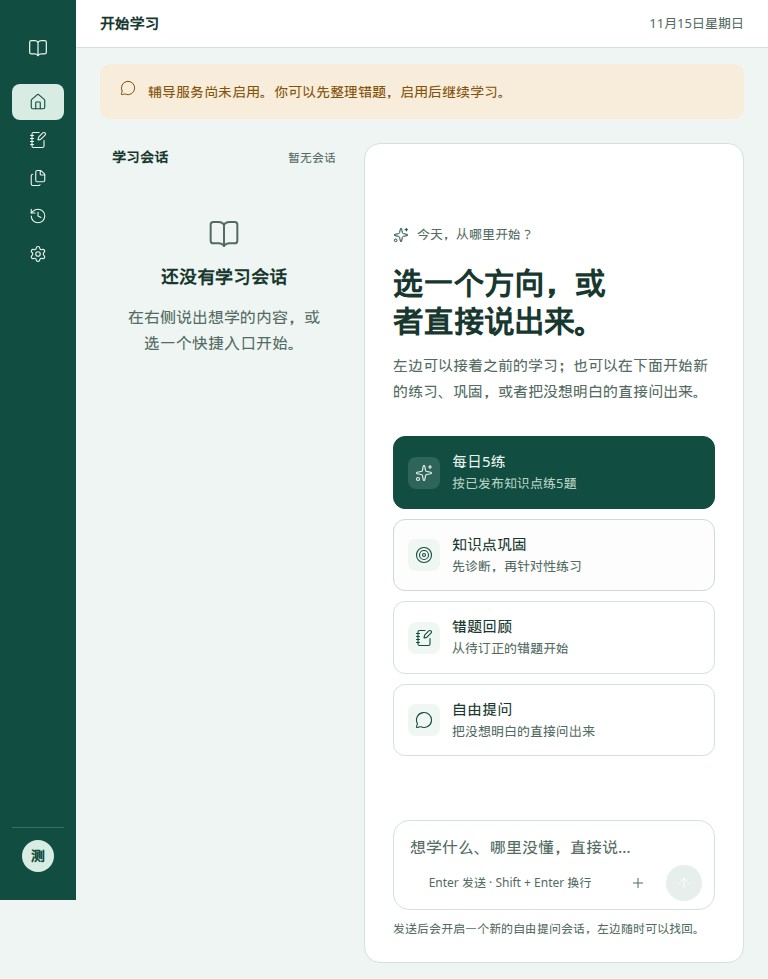
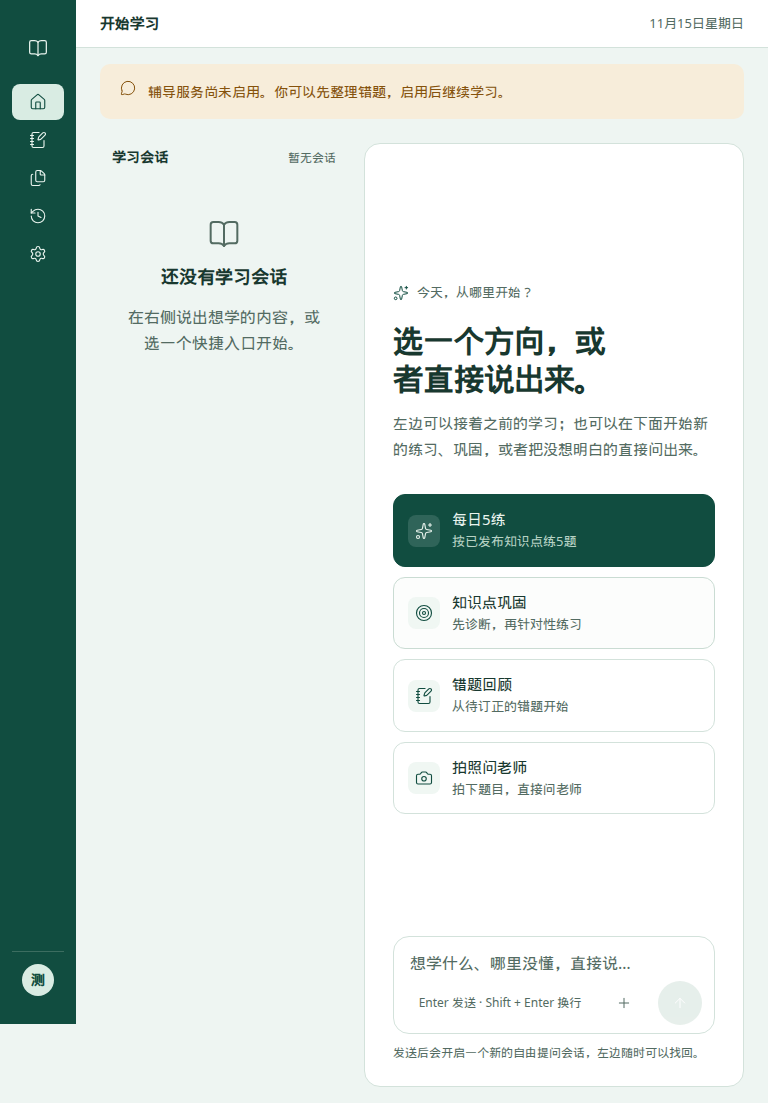
feat: adapt study navigation and composer across devices
Hide the global tab bar on study, add a back control, keep 44px targets,
and adapt the practice shell to phone, pad, and desktop viewports.

diff --git a/tests/e2e/mobile-practice.spec.ts b/tests/e2e/mobile-practice.spec.ts
@@ -1,0 +1,101 @@
+import { test, expect, type Page } from "@playwright/test";
+import { mockLearningApi } from "./fixtures/ui-api";
+
+const viewports = [
+  { width: 320, height: 740 },
+  { width: 390, height: 844 },
+  { width: 430, height: 932 },
+  { width: 768, height: 1024 },
+  { width: 1024, height: 768 },
+  { width: 1440, height: 900 },
+];
+
+async function login(page: Page) {
+  await page.getByLabel("账号", { exact: true }).fill("student");
+  await page.getByLabel("密码", { exact: true }).fill("long-password");
+  await page.getByRole("button", { name: "登录", exact: true }).click();
+}
+
+async function noHorizontalOverflow(page: Page) {
+  await expect
+    .poll(() =>
+      page.evaluate(
+        () => document.documentElement.scrollWidth <= window.innerWidth + 1,
+      ),
+    )
+    .toBe(true);
+}
+
+test.describe("mobile practice layout", () => {
+  for (const viewport of viewports) {
+    test(`${viewport.width}x${viewport.height} keeps study usable`, async ({
+      page,
+    }) => {
+      await page.setViewportSize(viewport);
+      await mockLearningApi(page, "student", { practiceSets: true });
+      await page.goto("/");
+      await login(page);
+      await expect(page.getByRole("button", { name: "每日5练" })).toBeVisible();
+      await expect(page.getByRole("button", { name: "错题回顾" })).toBeVisible();
+      await expect(page.getByRole("button", { name: "拍照问老师" })).toBeVisible();
+      await expect(page.getByRole("button", { name: "知识点巩固" })).toBeVisible();
+      await noHorizontalOverflow(page);
+
+      await page.getByRole("button", { name: "每日5练" }).click();
+      await expect(page).toHaveURL(/\/study\//);
+      await expect(page.getByRole("heading", { name: "第 1 题" })).toBeVisible();
+      await expect(page.getByRole("link", { name: "返回" })).toBeVisible();
+      if (viewport.width < 768) {
+        await expect(page.getByRole("navigation", { name: "底部导航" })).toHaveCount(
+          0,
+        );
+      }
+      await noHorizontalOverflow(page);
+      const tooSmall = await page.evaluate(() => {
+        const nodes = [...document.querySelectorAll("button, a.button, .tab-bar a")];
+        return nodes
+          .filter((node) => {
+            if (node.classList.contains("skip-link")) return false;
+            const style = window.getComputedStyle(node);
+            if (style.display === "none" || style.visibility === "hidden")
+              return false;
+            const box = node.getBoundingClientRect();
+            return box.width > 0 && box.height > 0 && (box.width < 44 || box.height < 44);
+          })
+          .map((node) => (node as HTMLElement).innerText || node.getAttribute("aria-label"));
+      });
+      expect(tooSmall).toEqual([]);
+    });
+  }
+
+  test("soft keyboard resize does not cover the send control", async ({
+    page,
+  }) => {
+    await page.setViewportSize({ width: 390, height: 844 });
+    await mockLearningApi(page, "student", { practiceSets: true });
+    await page.goto("/");
+    await login(page);
+    await page.getByRole("button", { name: "每日5练" }).click();
+    await expect(page.getByLabel("你的回答")).toBeVisible();
+    await page.evaluate(() => {
+      Object.defineProperty(window, "innerHeight", { configurable: true, value: 844 });
+      const visual = {
+        width: 390,
+        height: 480,
+        offsetTop: 0,
+        addEventListener: () => {},
+        removeEventListener: () => {},
+      };
+      Object.defineProperty(window, "visualViewport", {
+        configurable: true,
+        value: visual,
+      });
+      window.dispatchEvent(new Event("resize"));
+    });
+    const send = page.getByRole("button", { name: "发送消息" });
+    await expect(send).toBeVisible();
+    const box = await send.boundingBox();
+    expect(box).toBeTruthy();
+    expect((box?.y ?? 0) + (box?.height ?? 0)).toBeLessThanOrEqual(844);
+  });
+});

diff --git a/apps/web/src/components/AppShell.tsx b/apps/web/src/components/AppShell.tsx
@@ -88,8 +88,9 @@ export function AppShell({
 }) {
   const { pathname } = useLocation();
   const tabs = mode === "admin" ? adminTabs : studentTabs;
+  const studying = pathname.startsWith("/study/");
   return (
-    <div className="app-shell">
+    <div className={`app-shell${studying ? " is-study" : ""}`}>
       <a className="skip-link" href="#main-content">
         跳到主要内容
       </a>
@@ -138,21 +139,34 @@ export function AppShell({
       </aside>
       <div className="workspace">
         <header className="context-bar">
-          <span className="context-title">{pageTitle(pathname)}</span>
-          <span className="context-meta">{TODAY.format(new Date())}</span>
+          {studying ? (
+            <>
+              <Link className="context-back" to="/">
+                返回
+              </Link>
+              <span className="context-title">学习进行中</span>
+            </>
+          ) : (
+            <>
+              <span className="context-title">{pageTitle(pathname)}</span>
+              <span className="context-meta">{TODAY.format(new Date())}</span>
+            </>
+          )}
         </header>
         <main id="main-content" className="page-content">
           {children}
         </main>
       </div>
-      <nav className="tab-bar" aria-label="底部导航">
-        {tabs.map(({ to, label, icon: Icon }) => (
-          <NavLink key={to} to={to} end={to === "/"} title={label}>
-            <Icon size={20} />
-            <span>{label}</span>
-          </NavLink>
-        ))}
-      </nav>
+      {!studying && (
+        <nav className="tab-bar" aria-label="底部导航">
+          {tabs.map(({ to, label, icon: Icon }) => (
+            <NavLink key={to} to={to} end={to === "/"} title={label}>
+              <Icon size={20} />
+              <span>{label}</span>
+            </NavLink>
+          ))}
+        </nav>
+      )}
     </div>
   );
 }

diff --git a/apps/web/src/styles/global.css b/apps/web/src/styles/global.css
@@ -338,6 +338,14 @@ textarea.input {
   font-weight: 600;
   letter-spacing: -0.01em;
 }
+.context-back {
+  min-height: 44px;
+  min-width: 44px;
+  display: inline-flex;
+  align-items: center;
+  font-weight: 500;
+  color: var(--primary);
+}
 .context-meta {
   font-size: 13px;
   color: var(--muted);
@@ -695,8 +703,8 @@ textarea.input {
   }
 }
 .session-actions button {
-  width: 36px;
-  height: 36px;
+  width: 44px;
+  height: 44px;
   display: grid;
   place-items: center;
   border: 0;
@@ -724,8 +732,8 @@ textarea.input {
   font-size: 14px;
 }
 .session-edit button {
-  width: 36px;
-  height: 36px;
+  width: 44px;
+  height: 44px;
   display: grid;
   place-items: center;
   border: 0;
@@ -749,7 +757,7 @@ textarea.input {
   gap: 8px;
 }
 .session-confirm button {
-  min-height: 36px;
+  min-height: 44px;
   padding: 4px 16px;
   border: 1px solid var(--border);
   border-radius: 8px;
@@ -1272,6 +1280,20 @@ textarea.input {
   }
   .context-meta {
     display: none;
+  }
+  .app-shell.is-study .tab-bar {
+    display: none;
+  }
+  .app-shell.is-study .session-rail {
+    display: none;
+  }
+  .app-shell.is-study .page-content {
+    height: calc(100dvh - var(--topbar-height));
+    padding-bottom: 12px;
+    overflow: hidden;
+  }
+  .app-shell.is-study .home-layout {
+    height: 100%;
   }
   .tab-bar {
     display: grid;
@@ -1916,8 +1938,8 @@ textarea.input {
   color: var(--muted);
 }
 .composer-send {
-  width: 36px;
-  height: 36px;
+  width: 44px;
+  height: 44px;
   flex: none;
   display: grid;
   place-items: center;
@@ -1960,8 +1982,8 @@ textarea.input {
 }
 .composer-image-add {
   display: grid;
-  width: 32px;
-  height: 32px;
+  width: 44px;
+  height: 44px;
   place-items: center;
   border: 0;
   border-radius: 8px;

diff --git a/apps/web/src/routes/Home.tsx b/apps/web/src/routes/Home.tsx
@@ -1,6 +1,6 @@
 import { useRef, useState } from "react";
 import { Link, useNavigate } from "react-router-dom";
-import { MessageCircle, NotebookPen, Sparkles, Target } from "lucide-react";
+import { Camera, MessageCircle, NotebookPen, Sparkles, Target } from "lucide-react";
 import { useAuth } from "../lib/auth";
 import { api, jsonBody, errorMessage } from "../lib/api";
 import type { TaskDTO, TaskKind } from "../lib/types";
@@ -37,9 +37,9 @@ const quickStarts: {
   },
   {
     kind: "free_question",
-    label: "自由提问",
-    description: "把没想明白的直接问出来",
-    icon: MessageCircle,
+    label: "拍照问老师",
+    description: "拍下题目，直接问老师",
+    icon: Camera,
   },
 ];
 
@@ -115,10 +115,6 @@ export function Home() {
       setBusy(false);
     }
   };
-  const prepareFreeQuestion = () => {
-    setDraft("我想自由提问：");
-    requestAnimationFrame(() => composerRef.current?.focus());
-  };
   const sendFreeQuestion = async (submission: ImageSubmission) => {
     setBusy(true);
     setError("");
@@ -182,8 +178,10 @@ export function Home() {
                     disabled={busy}
                     title={description}
                     onClick={() => {
-                      if (kind === "free_question") prepareFreeQuestion();
-                      else void quickStart(kind);
+                      if (kind === "free_question") {
+                        setDraft("我想拍照问老师：");
+                        requestAnimationFrame(() => composerRef.current?.focus());
+                      } else void quickStart(kind);
                     }}
                   >
                     <span className="start-card-icon">

diff --git a/tests/e2e/responsive.spec.ts b/tests/e2e/responsive.spec.ts
@@ -1,8 +1,17 @@
 import { test, expect } from "@playwright/test";
 import { mockLearningApi } from "./fixtures/ui-api";
-for (const width of [360, 390, 768, 1024, 1280, 1440])
-  test(`workbench at ${width}px`, async ({ page }) => {
-    await page.setViewportSize({ width, height: 900 });
+for (const { width, height } of [
+  { width: 320, height: 740 },
+  { width: 360, height: 900 },
+  { width: 390, height: 900 },
+  { width: 430, height: 932 },
+  { width: 768, height: 1024 },
+  { width: 1024, height: 768 },
+  { width: 1280, height: 900 },
+  { width: 1440, height: 900 },
+])
+  test(`workbench at ${width}x${height}`, async ({ page }) => {
+    await page.setViewportSize({ width, height });
     await mockLearningApi(page);
     await page.route("**/api/materials*", (r) => r.fulfill({ json: [] }));
     await page.goto("/");

diff --git a/apps/web/src/features/practice/MobileStudyShell.tsx b/apps/web/src/features/practice/MobileStudyShell.tsx
@@ -5,14 +5,19 @@ export function MobileStudyShell({
   progress,
   children,
   dock,
+  keyboardInset = 0,
 }: {
   header: ReactNode;
   progress?: ReactNode;
   children: ReactNode;
   dock: ReactNode;
+  keyboardInset?: number;
 }) {
   return (
-    <div className="mobile-study-shell">
+    <div
+      className="mobile-study-shell"
+      style={{ paddingBottom: keyboardInset }}
+    >
       <header className="mobile-study-header">{header}</header>
       {progress}
       <div className="mobile-study-scroll">{children}</div>

diff --git a/apps/web/src/features/practice/PracticeStudyView.tsx b/apps/web/src/features/practice/PracticeStudyView.tsx
@@ -435,7 +435,12 @@ export function PracticeStudyView({
 
   if (viewport.phone || a.capabilities?.mobileStudy === "enabled")
     return (
-      <MobileStudyShell header={header} progress={undefined} dock={dock}>
+      <MobileStudyShell
+        header={header}
+        progress={undefined}
+        dock={dock}
+        keyboardInset={viewport.keyboardInset}
+      >
         {body}
         {workspace}
       </MobileStudyShell>

diff --git a/apps/web/src/features/practice/practice.css b/apps/web/src/features/practice/practice.css
@@ -109,6 +109,7 @@
   flex-direction: column;
   min-height: 0;
   flex: 1;
+  height: calc(100dvh - var(--topbar-height) - 12px);
 }
 .mobile-study-header,
 .mobile-study-scroll,

diff --git a/DESIGN.md b/DESIGN.md
@@ -8,8 +8,9 @@
 - 主操作 #114d40 / 白字；选中表面 #d9ece3；成功 #176346，警告 #85520c，错误 #a63232。对错同时用文字和图标表达。
 - 中文系统字体：PingFang SC、Microsoft YaHei、system-ui；这是已批准设计对加载成本的选择。标题32/28/22px，正文16px/1.65，辅助14px；数字 tabular-nums。
 - 间距以4px为基础：8/12/16/24/32/48；卡片圆角14px、控件10px；只用边界或轻微下落阴影定义层级，不叠加装饰光晕。
-- 内容最大宽1440px；桌面导航232px，Pad紧凑76px，手机使用顶部品牌与可展开导航。学习页在宽屏题目/对话分栏，手机使用可展开题目。
-- 断点768px与1200px；全页面min-width:0，公式/表格局部横滚，不用全局隐藏溢出来掩盖布局问题。
+- 内容最大宽1440px；桌面导航232px，Pad紧凑76px，手机使用顶部品牌与底部五栏导航。学习页 `/study/:id` 隐藏底部导航，顶部提供返回；宽屏题目/辅导分栏，手机使用单一滚动区加底部输入 dock。
+- 断点：手机 <768px，Pad 768～1199px，PC ≥1200px。双栏要求两侧分别至少 320px / 400px，不够则回单列。全页面 min-width:0，公式/表格局部横滚，不用全局隐藏溢出来掩盖布局问题。
+- 学习壳使用 dvh 与安全区；软键盘以 visualViewport 为增强，不与安全区重复计算键盘高度。触控目标至少 44×44 CSS px，触控 Enter 换行，桌面 Enter 发送。
 
 ## 组件与状态
 
